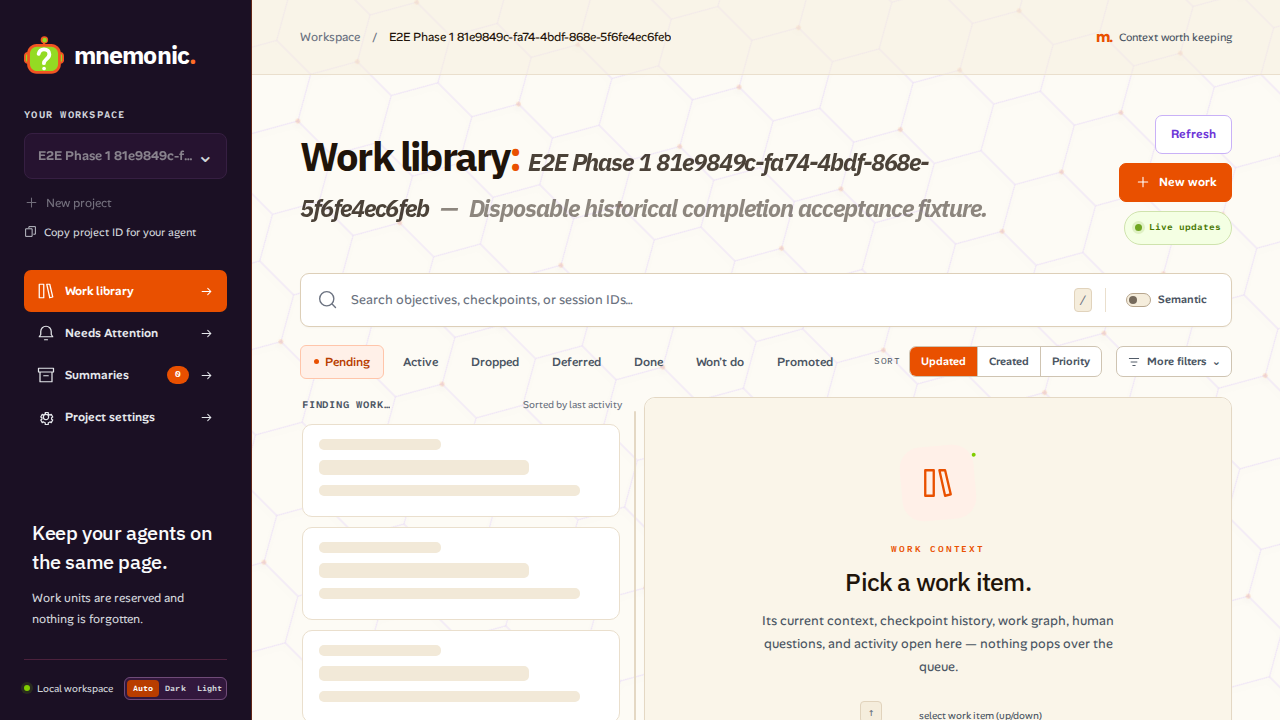
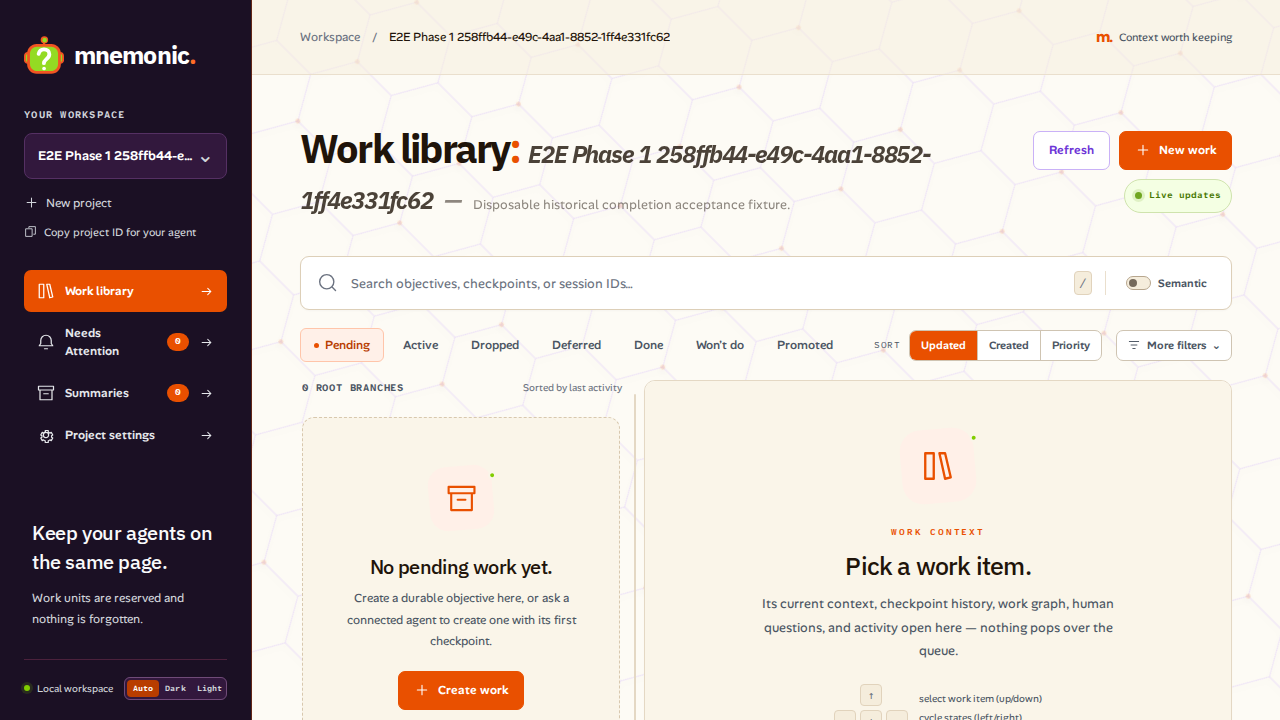
Restore the project description typography (#45)

diff --git a/frontend/app/globals.css b/frontend/app/globals.css
@@ -183,7 +183,7 @@ button { touch-action: manipulation; }
 .page-heading h1 > .heading-subject { font-size: .6em; letter-spacing: -.045em; font-style: italic; font-synthesis-style: none; overflow-wrap: anywhere; }
 .heading-subject-name { opacity: .8; }
 .heading-subject-separator { margin-inline: .45em; opacity: .5; }
-.heading-subject-description { opacity: .5; }
+.heading-subject-description { font-family: var(--font); font-size: 13px; font-style: normal; font-weight: 400; letter-spacing: normal; line-height: 1.7; opacity: .5; }
 .page-heading p { margin: 0; font-size: 13px; color: var(--muted); max-width: 620px; line-height: 1.7; overflow-wrap: anywhere; }
 
 .settings-card { max-width: 940px; padding: clamp(24px, 4vw, 42px); border: 1px solid var(--line); border-radius: 13px; background: var(--surface); box-shadow: 0 5px 24px #2511300a; }
@@ -488,7 +488,7 @@ html[data-pane-crossfade]::view-transition-new(root) {
   .page-heading { gap: 14px; align-items: flex-start; }
   .page-heading h1 { font-size: 33px; letter-spacing: -1.2px; }
   .page-heading .eyebrow { font-size: 7px; letter-spacing: 1px; }
-  .page-heading p { font-size: 12px; }
+  .page-heading p, .heading-subject-description { font-size: 12px; }
   .search-field { height: 49px; padding: 0 13px; gap: 10px; }
   .search-field input { font-size: 12px; }
   .search-field kbd { display: none; }

diff --git a/frontend/tests/e2e/phase1-work-checkpoints.spec.ts b/frontend/tests/e2e/phase1-work-checkpoints.spec.ts
@@ -553,8 +553,21 @@ test("the library hero names the selected project in the vendored italic face", 
   await expect(description).toHaveText(state.projectDescription);
   await expect(description).toHaveCSS("opacity", "0.5");
   await expect(page.locator(".page-heading p")).toHaveCount(0);
-  expect(await description.evaluate((node) => getComputedStyle(node).fontSize))
-    .toBe(await subject.evaluate((node) => getComputedStyle(node).fontSize));
+  const descriptionType = await description.evaluate((node) => {
+    const style = getComputedStyle(node);
+    return {
+      family: style.fontFamily.split(",")[0].replace(/["']/g, "").trim(),
+      size: style.fontSize,
+      style: style.fontStyle,
+      weight: style.fontWeight,
+    };
+  });
+  expect(descriptionType).toEqual({
+    family: "Alan Sans",
+    size: page.viewportSize()!.width <= 580 ? "12px" : "13px",
+    style: "normal",
+    weight: "400",
+  });
   const color = (locator: Locator) => locator.evaluate((node) => getComputedStyle(node).color);
   expect(await color(mark)).toBe(await color(page.locator(".topbar .small-mark")));
   expect(await color(subject)).toBe(await color(heading));
